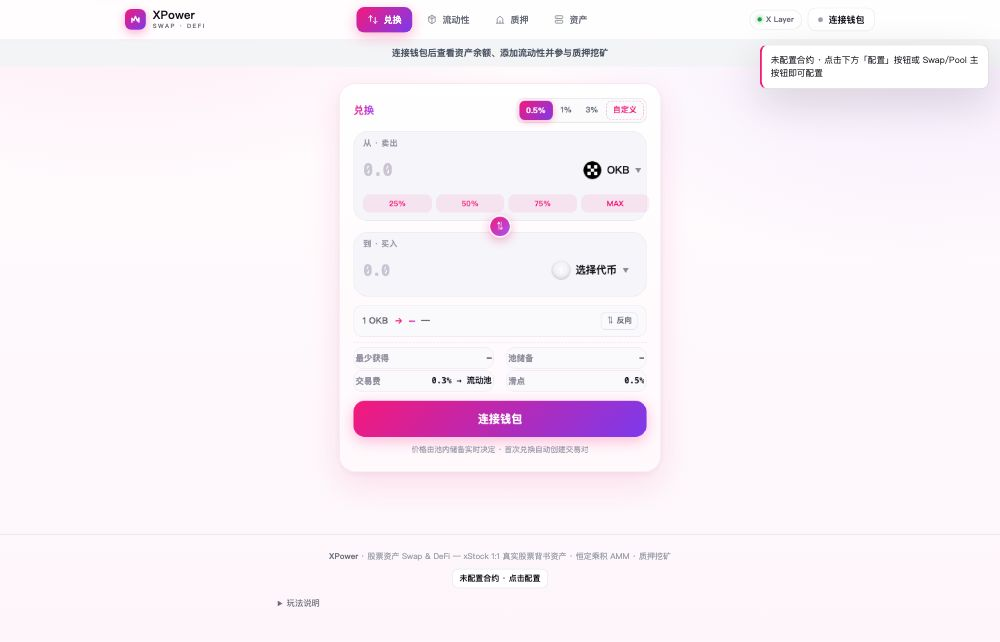
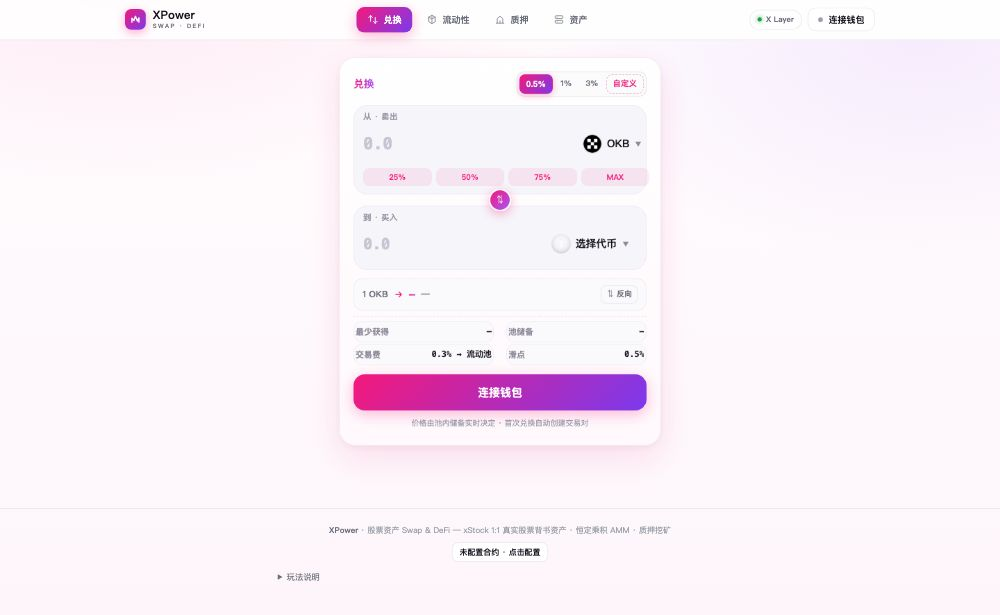
移除全局状态条(合约已就绪横幅)，信息由统计条承载

diff --git a/XPower Swap DApp.html b/XPower Swap DApp.html
@@ -343,7 +343,6 @@ body{background:radial-gradient(1100px 560px at 12% -8%,rgba(245,25,123,.09),tra
     <span>当前网络不是 X Layer（chainId 196）—— 兑换 / 添加流动性 / 质押均无法正常提交，请切换网络</span>
   </div>
   <div id="toasts"></div>
-  <div id="statusBar" style="display:none;align-items:center;justify-content:center;gap:8px;font-size:13px;font-weight:600;padding:8px 16px;border-bottom:1px solid transparent"></div>
 
 <main>
   <!-- ===== Swap ===== -->
@@ -2425,26 +2424,7 @@ function refreshView(){
   if(curView==="assets"){renderAssetList();renderAssets();}
   renderCfgInfo();
 }
-function refreshAll(){refreshView();if(curView==="swap")quoteSwap();updateStatusBar();}
-async function updateStatusBar(){
-  const el=$("statusBar");if(!el)return;
-  try{
-    if(!walletAddr){el.style.display="flex";el.style.background="#f3f4f6";el.style.color="#4b5563";el.style.borderColor="transparent";el.innerHTML='<span>连接钱包后查看资产余额、添加流动性并参与质押挖矿</span>';return;}
-    if(!chainOk){el.style.display="none";return;}
-    if(needCfg()){el.style.display="flex";el.style.background="#fff7e6";el.style.color="#b45309";el.style.borderColor="#fcd34d";el.innerHTML='<span>合约尚未部署 · <b style="cursor:pointer;text-decoration:underline" onclick="openCfg()">点此一键起盘</b>（部署 4 合约 → 组 LP → 质押池）</span>';return;}
-    let pairs=0,pools=0;
-    try{
-      await withRPC(async p=>{
-        const f=new ethers.Contract(cfg.factory,FACTORY_ABI,p);
-        pairs=Number(await f.allPairsLength());
-        const st=new ethers.Contract(cfg.staking,STAKING_ABI,p);
-        pools=Number(await st.poolLength());
-      });
-    }catch(e){}
-    el.style.display="flex";el.style.background="#ecfdf5";el.style.color="#047857";el.style.borderColor="#a7f3d0";
-    el.innerHTML='<span>合约已就绪 · '+pairs+' 交易对 · '+pools+' 质押池 · <b style="cursor:pointer;text-decoration:underline" onclick="openCfg()">查看配置</b></span>';
-  }catch(e){el.style.display="none";}
-}
+function refreshAll(){refreshView();if(curView==="swap")quoteSwap();}
 function renderCfgInfo(){
   const el=$("cfgInfo");if(!el)return;
   el.innerHTML=needCfg()
